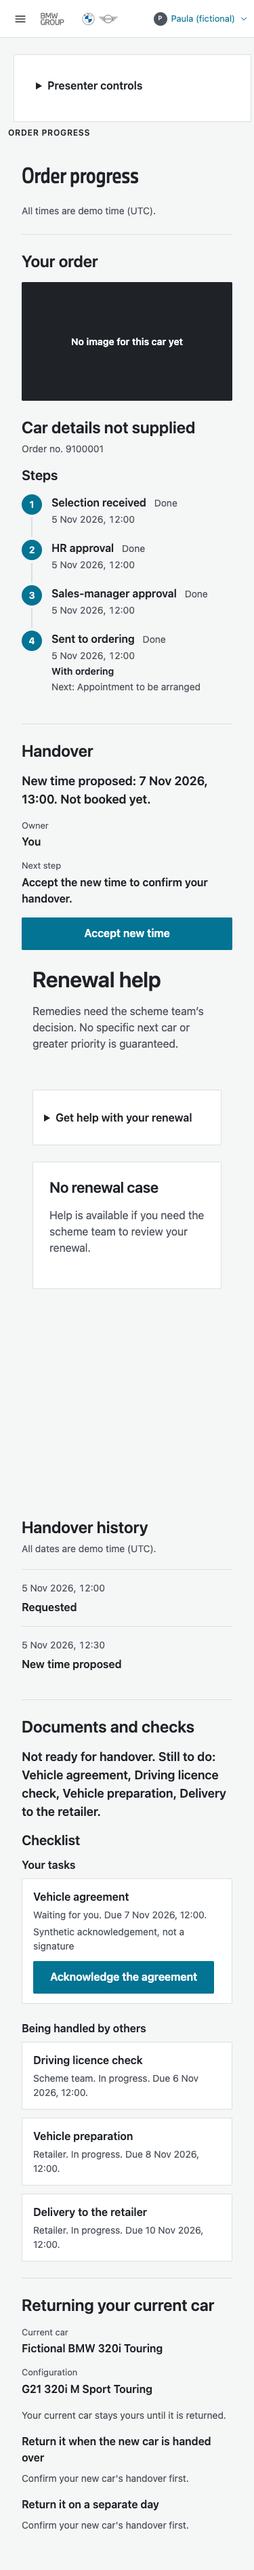
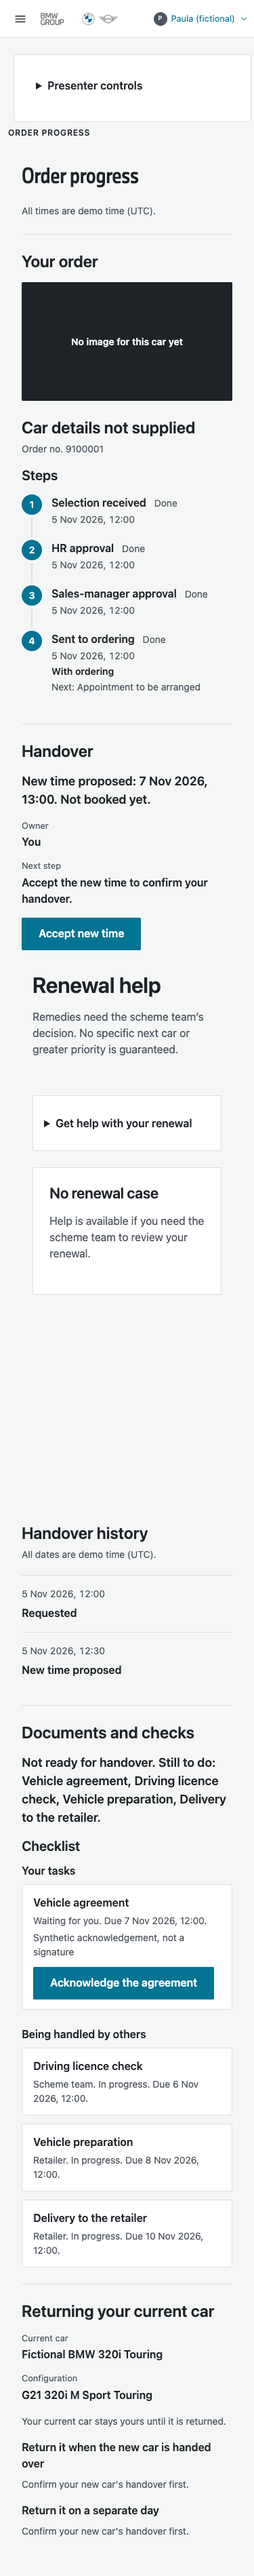
DEV-2026-11-04-082: identify Paula after ordering on the order progress page; keep help out of the actions row
Refreshed browser evidence after the fix.

diff --git a/blocks/gcsp/shell/account-runtime.js b/blocks/gcsp/shell/account-runtime.js
@@ -1,12 +1,13 @@
 // DOM-free projection of the existing trusted account endpoint for any GCSP shell.
-export function createAccountHttpAdapter({ fetch: request = globalThis.fetch, baseURL = '', signal } = {}) {
+// `states` widens which account states identify the person; an ordered car leaves the slot `no-entitlement`.
+export function createAccountHttpAdapter({ fetch: request = globalThis.fetch, baseURL = '', signal, states = ['ready'] } = {}) {
   return { async loadAccount(options = {}) {
     try {
       const response = await request(`${baseURL.replace(/\/$/, '')}/api/gcsp/manual/account`, {
         method: 'GET', credentials: 'same-origin', headers: { Accept: 'application/json' }, signal: options.signal || signal,
       });
       const found = await response.json();
-      if (!response.ok || found.status !== 'ok' || found.value?.state !== 'ready' || typeof found.value.account?.name !== 'string') return { status: 'unavailable' };
+      if (!response.ok || found.status !== 'ok' || !states.includes(found.value?.state) || typeof found.value.account?.name !== 'string') return { status: 'unavailable' };
       return { status: 'ready', name: found.value.account.name,
         context: found.value.account.gradeId ? `Grade ${found.value.account.gradeId}` : '' };
     } catch { return { status: 'unavailable' }; }

diff --git a/server/test/gcsp-account-runtime.test.js b/server/test/gcsp-account-runtime.test.js
@@ -29,3 +29,10 @@ test('shared account adapter keeps missing, refused, malformed and failed accoun
   const denied = createAccountHttpAdapter({ fetch: async () => ({ ok: false, json: async () => ({ status: 'ok', value: { state: 'ready', account: { name: 'Paula' } } }) }) });
   assert.deepEqual(await denied.loadAccount(), { status: 'unavailable' });
 });
+
+test('shared account adapter accepts a widened state list only when the caller asks', async () => {
+  const value = { status: 'ok', value: { state: 'no-entitlement', account: { name: 'Paula' } } };
+  const fetch = async () => ({ ok: true, json: async () => value });
+  assert.deepEqual(await createAccountHttpAdapter({ fetch }).loadAccount(), { status: 'unavailable' });
+  assert.deepEqual(await createAccountHttpAdapter({ fetch, states: ['ready', 'no-entitlement'] }).loadAccount(), { status: 'ready', name: 'Paula', context: '' });
+});

diff --git a/blocks/gcsp/order-progress/gcsp-order-progress.css b/blocks/gcsp/order-progress/gcsp-order-progress.css
@@ -16,7 +16,7 @@
 .gcsp .gcsp-order-car-name { margin: 0 0 6px; font-size: 24px; line-height: 1.25; font-weight: 600; overflow-wrap: anywhere; }
 .gcsp .gcsp-order-statement { margin: 0; font-size: 18px; font-weight: 600; overflow-wrap: anywhere; }
 .gcsp .gcsp-order-failure { margin: 0; font-size: 16px; color: var(--gcsp-text-muted); }
-.gcsp .gcsp-order-actions, .gcsp .gcsp-order-slots { display: flex; flex-wrap: wrap; gap: 8px 12px; list-style: none; margin: 0; padding: 0; }
+.gcsp .gcsp-order-actions, .gcsp .gcsp-order-slots { display: flex; flex-wrap: wrap; align-items: flex-start; gap: 8px 12px; list-style: none; margin: 0; padding: 0; }
 .gcsp .gcsp-order-choice { display: grid; gap: 8px; width: 100%; }
 .gcsp .gcsp-order-choice-label { margin: 0; font-size: 16px; font-weight: 600; }
 .gcsp .gcsp-order-progress .vm-screen { animation: none; }

diff --git a/blocks/gcsp/order-progress/live.js b/blocks/gcsp/order-progress/live.js
@@ -7,7 +7,7 @@ const host = globalThis.document?.querySelector('gcsp-order-progress[data-live]'
 if (host) {
   defineGcspOrderProgress();
   host.helpAdapter = createCaseHttpAdapter();
-  host.adapter = { ...createOrderProgressHttpAdapter({ fetch: globalThis.fetch, loadAccount: createAccountHttpAdapter().loadAccount }),
+  host.adapter = { ...createOrderProgressHttpAdapter({ fetch: globalThis.fetch, loadAccount: createAccountHttpAdapter({ states: ['ready', 'no-entitlement'] }).loadAccount }),
     navigation: [
       { key: 'brief', label: 'Your car brief', available: true, icon: ['M6 3h12v18H6z', 'M9 8h6', 'M9 12h6', 'M9 16h4'] },
       { key: 'activity', label: 'Buddy activity', available: true, icon: ['M4 5h16', 'M4 12h16', 'M4 19h16', 'M8 3v4', 'M8 10v4', 'M8 17v4'] },

diff --git a/blocks/gcsp/order-progress/order-progress-body.js b/blocks/gcsp/order-progress/order-progress-body.js
@@ -80,7 +80,7 @@ function handoverSection(c) {
   node.append(statement(line), factList(ownerRows(a)));
   if (proposed) {
     const accept = c.on.onAcceptAppointment && button({ label: copy.accept, disabled: c.pending, onClick: () => c.on.onAcceptAppointment(a.proposalId) });
-    add(node, c.actions(accept, c.help(copy.cantMakeIt)));
+    add(node, c.actions(accept), c.help(copy.cantMakeIt));
   }
   add(node, c.history(a, false));
   return node;
